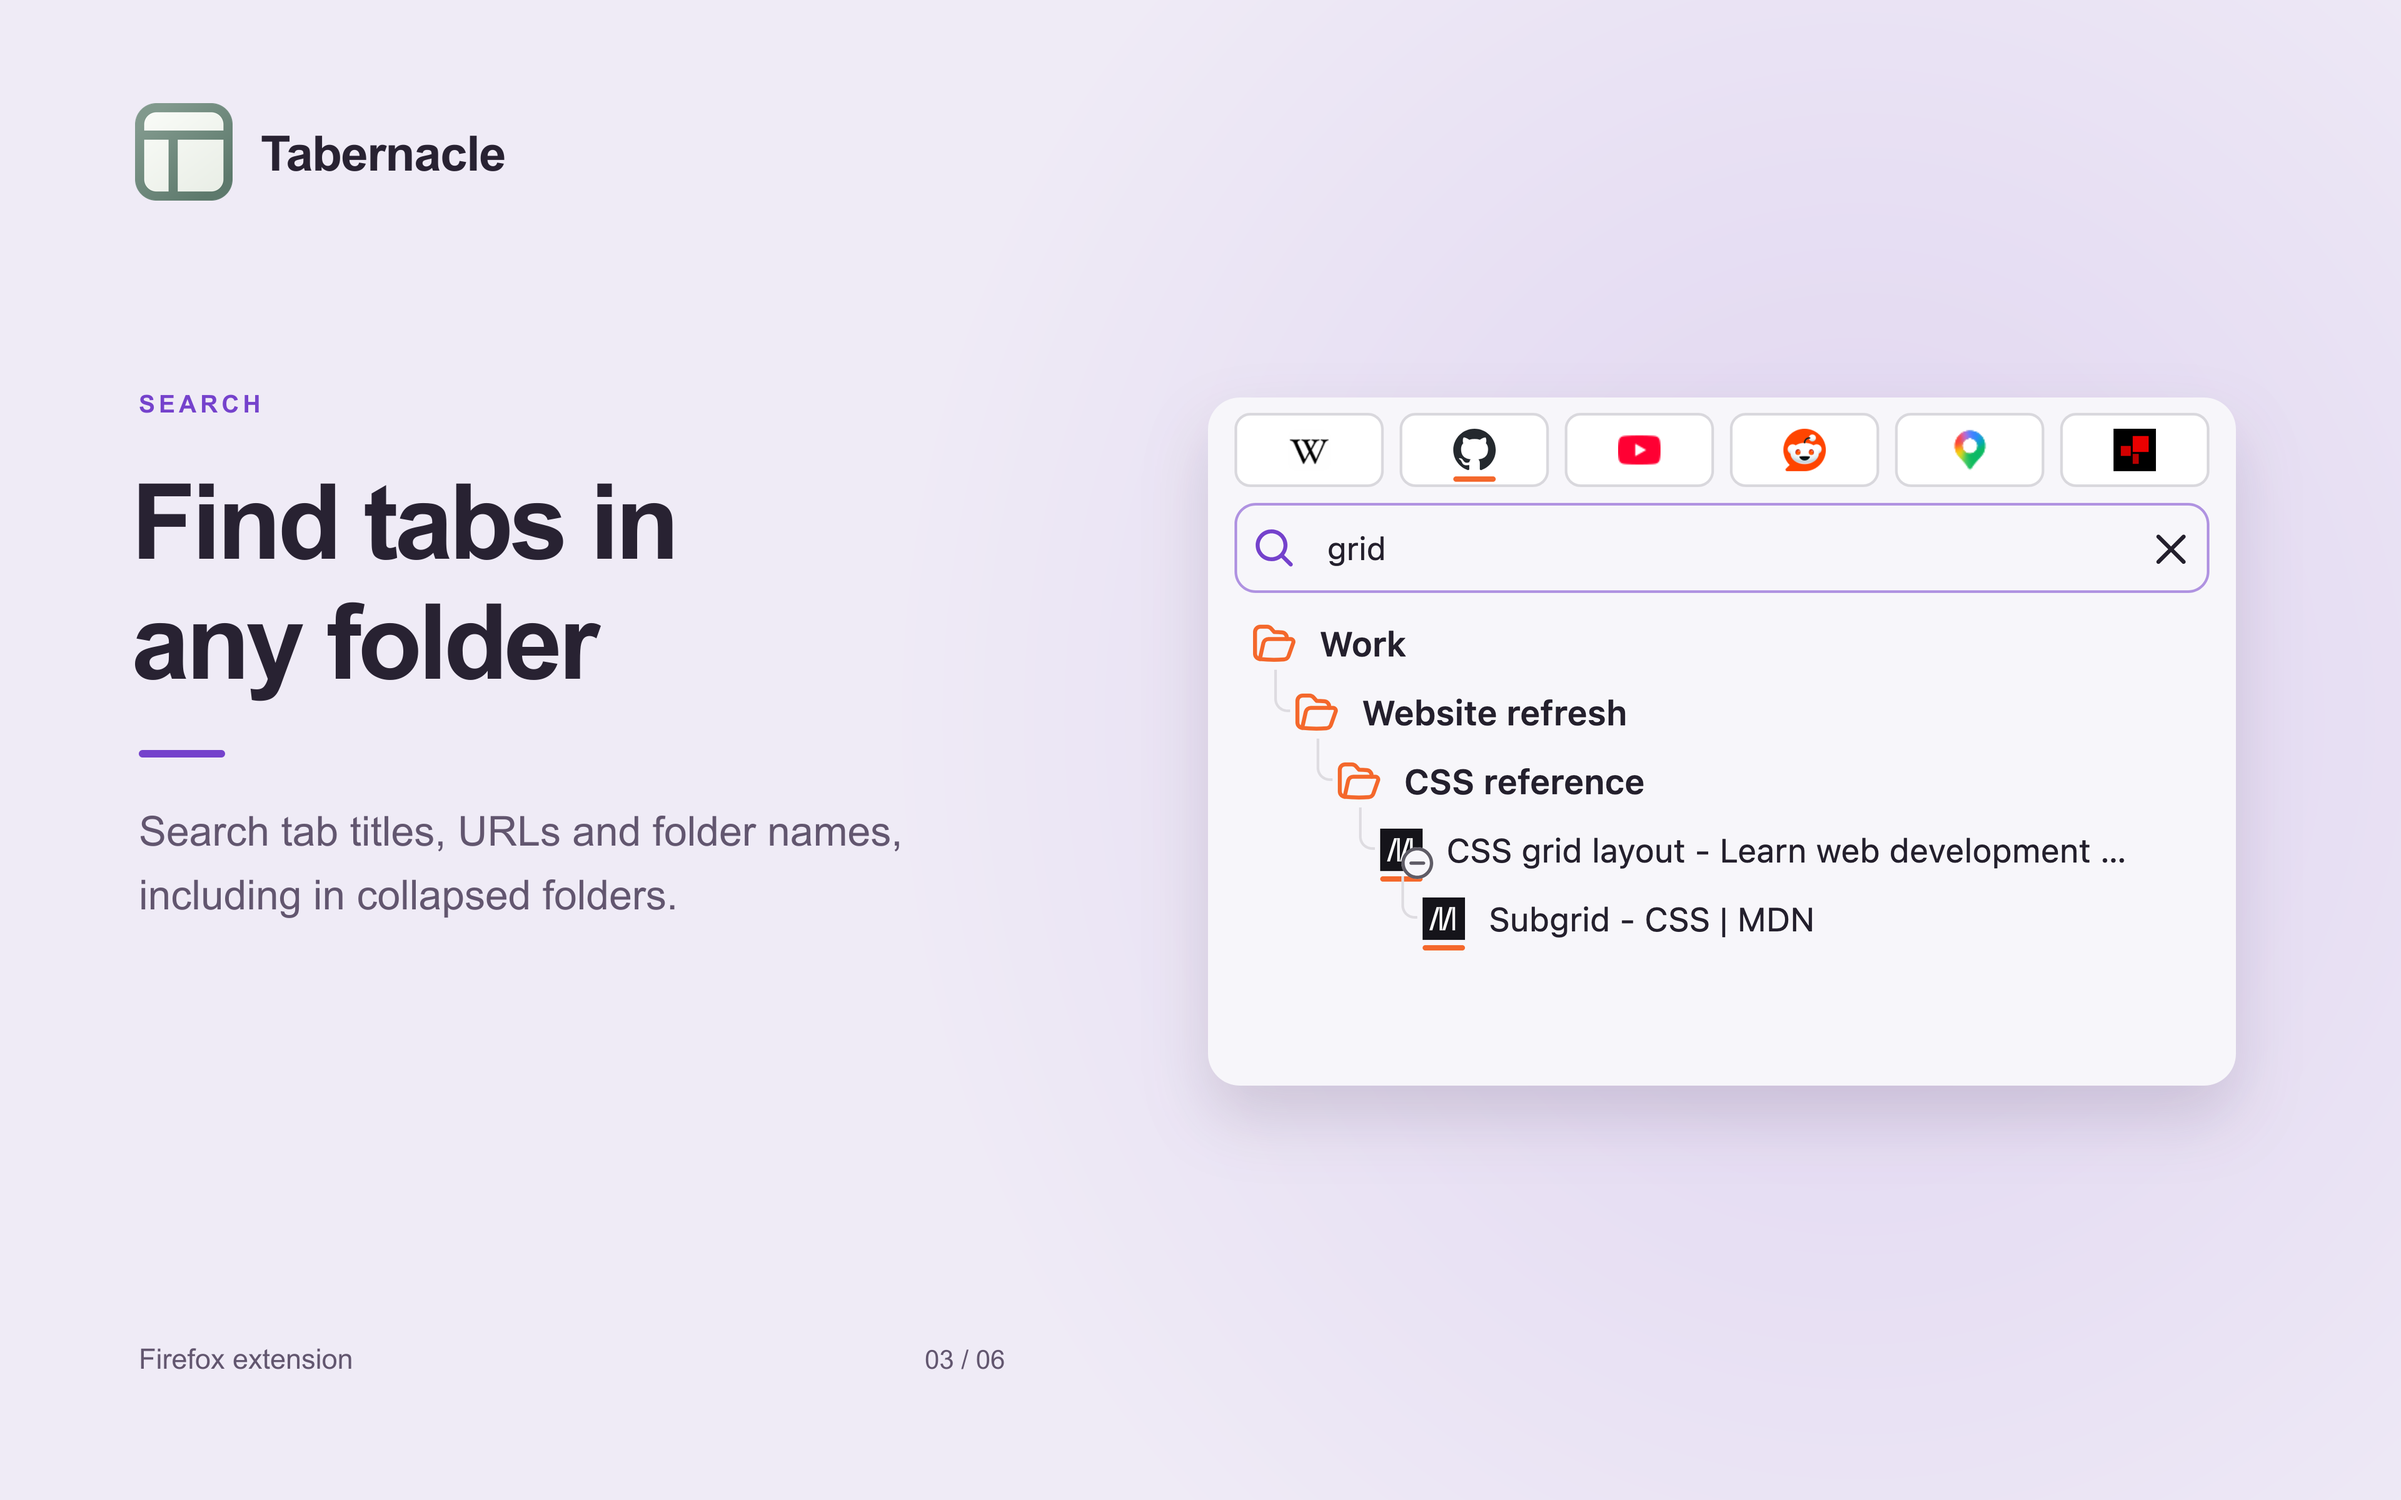
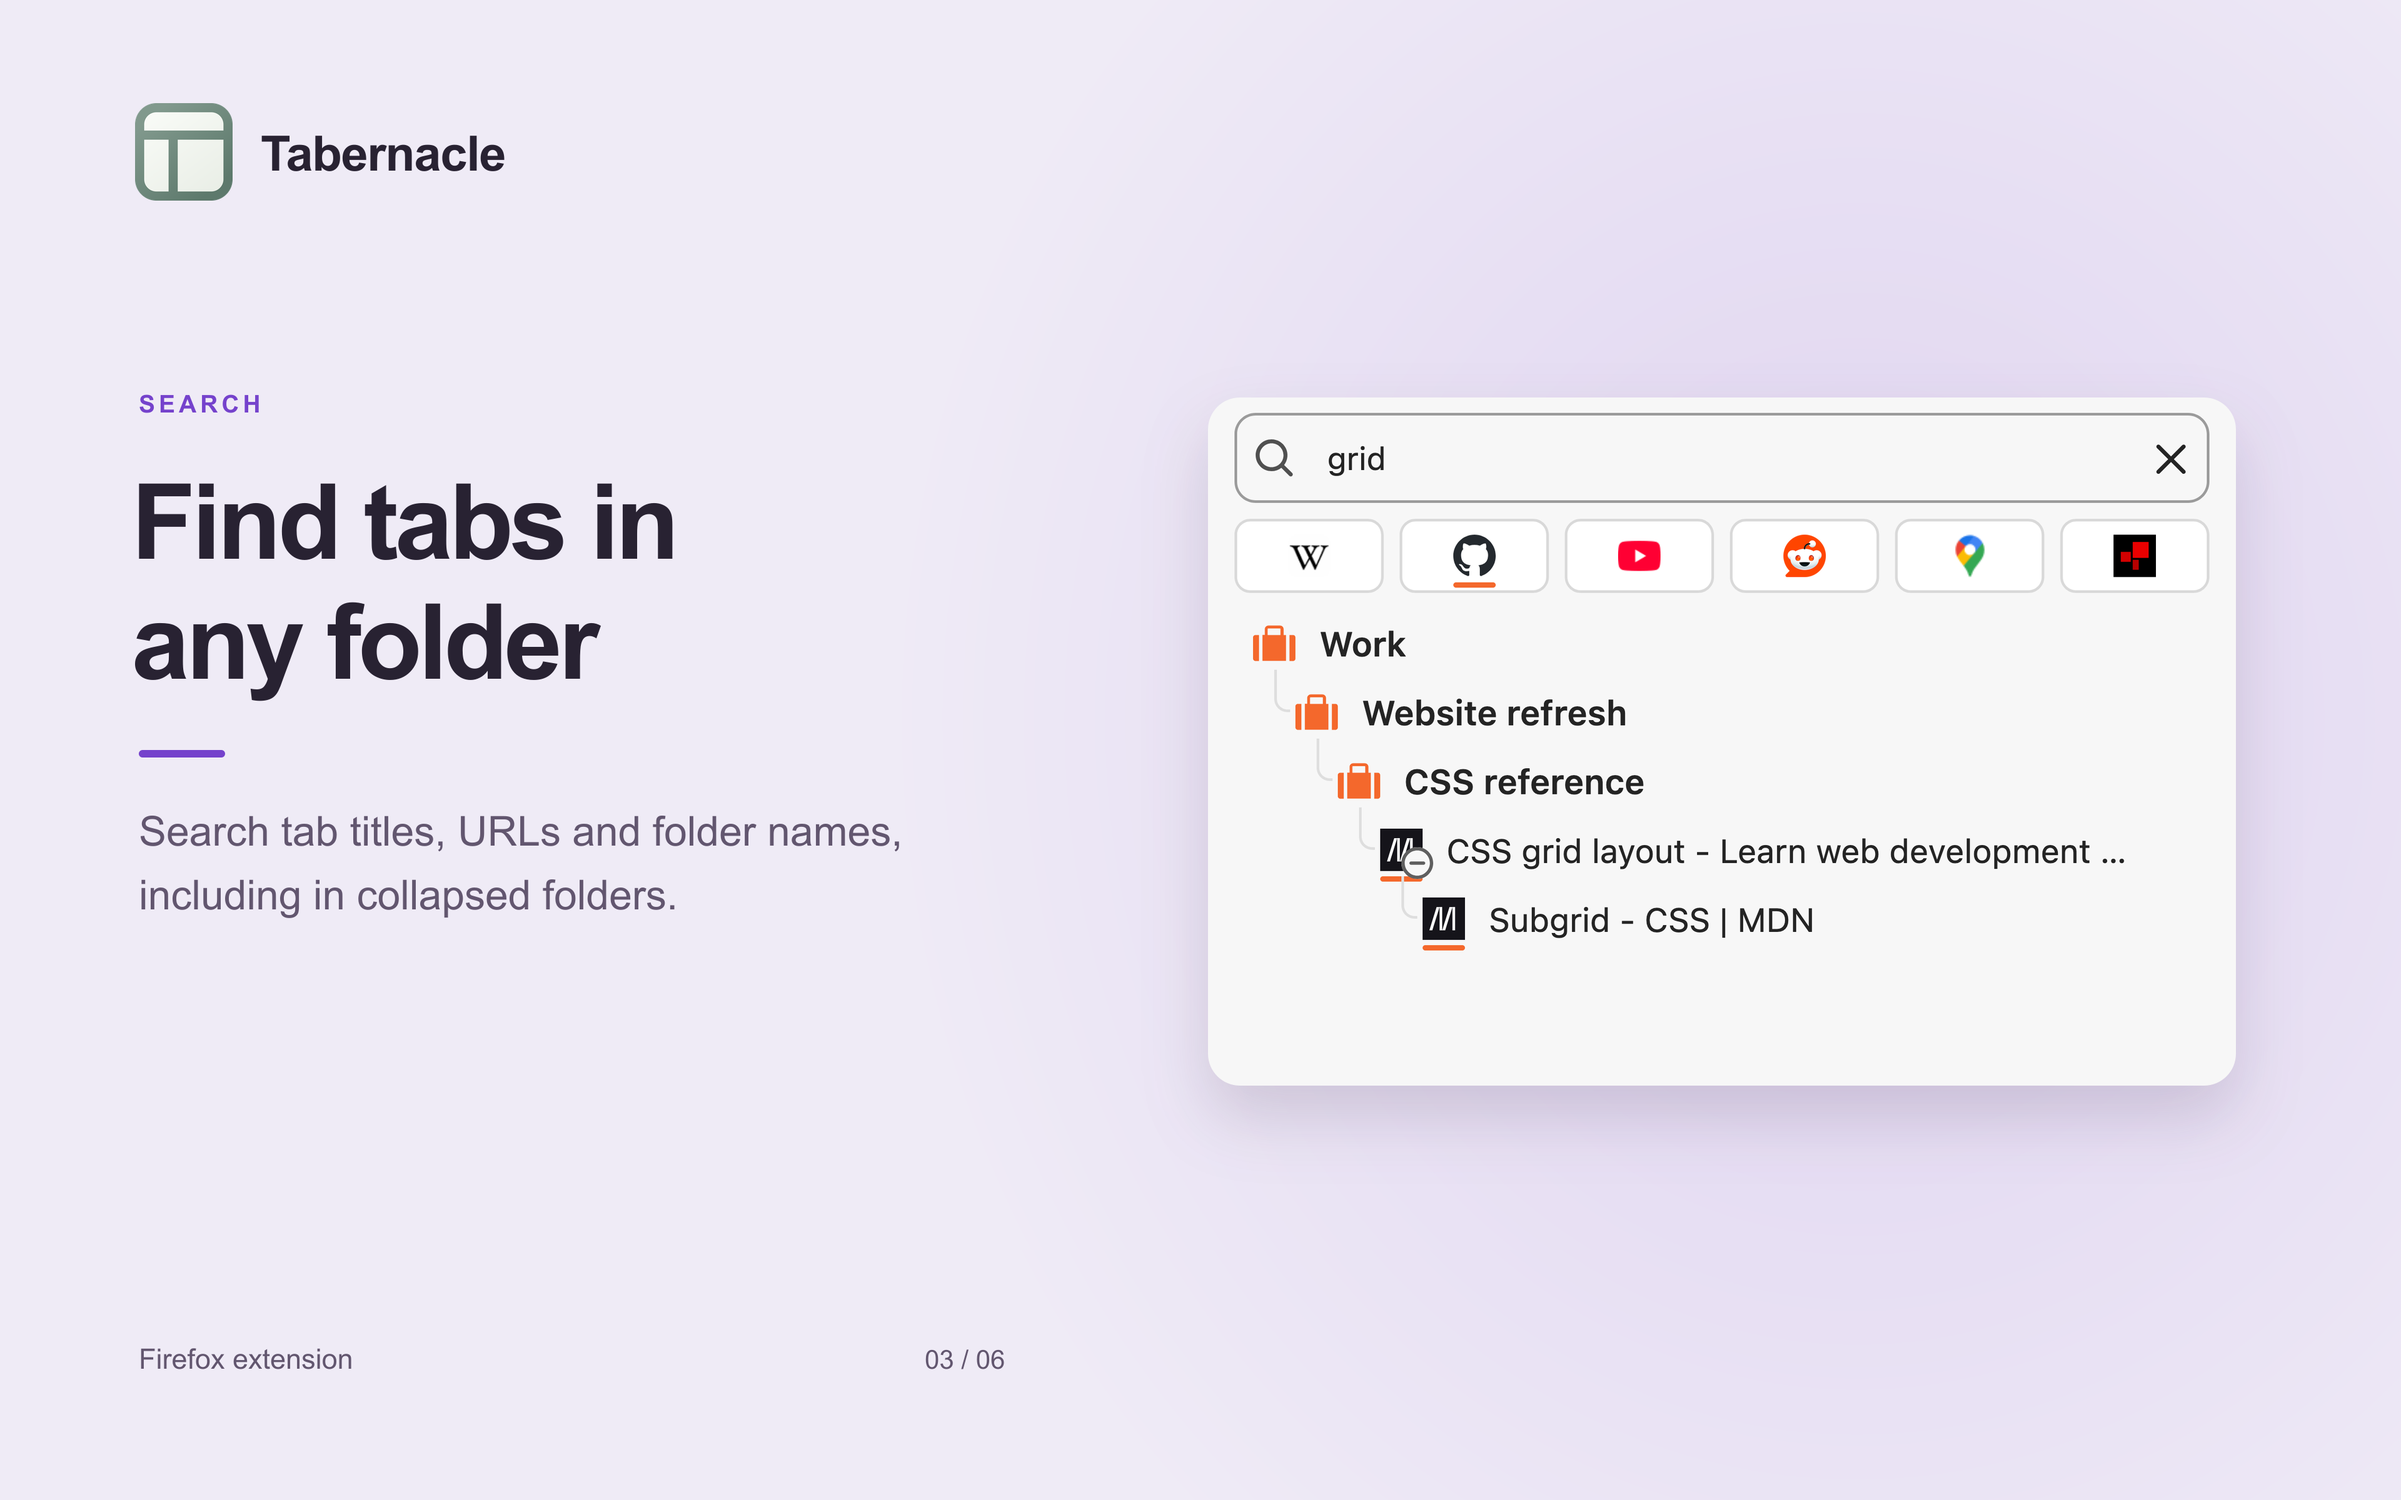
Rename fallback theme to Monochrome and neutralise accents

Changed region(s): [[0.5, 0.2812, 0.9375, 0.4375], [0.5625, 0.5, 0.5938, 0.5312], [0.5312, 0.4688, 0.5625, 0.5]]

diff --git a/extension/src/theme-palette.js b/extension/src/theme-palette.js
@@ -60,7 +60,7 @@ function mix(color, percent) {
 }
 
 // Incomplete external themes use Firefox's role fallbacks, not a mix of its
-// colours and Tabernacle's purple palette. Images are trusted bundled data only.
+// colours and the Monochrome palette. Images are trusted bundled data only.
 export function paletteFrom(details, dark, { bundled = false, isDefault = false, platform } = {}) {
   const supplied = colorsFrom(details);
   if (!Object.keys(supplied).length) return null;
@@ -219,8 +219,7 @@ function externalThemeDark(details, preference) {
 }
 
 export function resolveTheme(look, snapshot, dark) {
-  if (look.themeSource === 'tabernacle')
-    return { palette: null, status: 'Using Tabernacle’s colours' };
+  if (look.themeSource === 'tabernacle') return { palette: null, status: 'Using Monochrome' };
   const known = catalogue.get(snapshot.active?.id);
   if (known)
     return {
@@ -238,12 +237,12 @@ export function resolveTheme(look, snapshot, dark) {
     palette,
     status: palette
       ? `Using ${snapshot.active?.name || 'Firefox theme colours'}`
-      : 'Using Tabernacle’s fallback colours',
+      : 'Using Monochrome fallback colours',
   };
 }
 
 // Only remove properties owned by this adapter. This also makes reverting to
-// Tabernacle exactly restore its original CSS, including forced-colour rules.
+// Monochrome exactly restore its CSS, including forced-colour rules.
 export function createPaletteRenderer(root) {
   let previous = [];
   return (palette, colorScheme = 'default') => {

diff --git a/scripts/test-themes-ui.js b/scripts/test-themes-ui.js
@@ -111,7 +111,7 @@ try {
   for (const tab of [settings, activity])
     tab.on('pageerror', (error) => errors.push(error.message));
   const beforeGeometry = await page.locator('.row.active').boundingBox();
-  const cases = [{ id: null, name: 'Tabernacle fallback' }, ...knownThemes];
+  const cases = [{ id: null, name: 'Monochrome fallback' }, ...knownThemes];
   for (const dark of [false, true]) {
     for (const tab of [page, settings, activity])
       await tab.emulateMedia({ colorScheme: dark ? 'dark' : 'light' });
@@ -131,7 +131,7 @@ try {
       } else
         await expect(page.locator('html')).toHaveCSS(
           'background-color',
-          dark ? 'rgb(33, 29, 43)' : 'rgb(247, 246, 250)',
+          dark ? 'rgb(32, 32, 32)' : 'rgb(247, 247, 247)',
         );
       const geometry = await page.locator('.row.active').boundingBox();
       expect(geometry).toEqual(beforeGeometry);
@@ -192,7 +192,7 @@ try {
   });
   await settings.getByRole('button', { name: 'Save changes', exact: true }).click();
   await expect(page.locator('html')).not.toHaveAttribute('data-firefox-theme');
-  await expect(page.locator('html')).toHaveCSS('background-color', 'rgb(33, 29, 43)');
+  await expect(page.locator('html')).toHaveCSS('background-color', 'rgb(32, 32, 32)');
   await expect(page.locator('.sidebar')).toHaveCSS('background-image', 'none');
   await checkSharedPalette();
   await setTheme('nova-pine@mozilla.org');

diff --git a/extension/colors.css b/extension/colors.css
@@ -1,20 +1,20 @@
-/* Shared appearance tokens for the sidebar, settings and activity page.
+/* Shared Monochrome tokens for the sidebar, settings and activity page.
    Firefox palettes override these on the root through theme-palette.js. */
 :root {
   color-scheme: light dark;
-  --background: light-dark(#f7f6fa, #211d2b);
-  --text: light-dark(#24202d, #f3eff9);
+  --background: light-dark(#f7f7f7, #202020);
+  --text: light-dark(#242424, #f2f2f2);
   --icon: var(--text);
-  --toolbar-icon: light-dark(#5b5b66, #fbfbfe);
+  --toolbar-icon: light-dark(#5e5e5e, #fbfbfb);
   --muted: color-mix(in srgb, var(--text) 72%, var(--background));
   --line: color-mix(in srgb, var(--text) 14%, var(--background));
   --subtle: color-mix(in srgb, var(--text) 7%, var(--background));
   --hover: color-mix(in srgb, var(--text) 6%, var(--background));
-  --control: light-dark(#ffffff, #302938);
-  --selected: light-dark(#ffffff, #352e42);
-  --selected-border: light-dark(#c4b3df, #645575);
+  --control: light-dark(#ffffff, #2d2d2d);
+  --selected: light-dark(#ffffff, #343434);
+  --selected-border: light-dark(#bdbdbd, #606060);
   --selected-text: var(--text);
-  --accent: light-dark(#7542cc, #c4a1ff);
+  --accent: light-dark(#505050, #c7c7c7);
   --accent-text: var(--background);
   --focus: var(--accent);
   --action-text: var(--accent);

diff --git a/scripts/test-color-mode-ui.js b/scripts/test-color-mode-ui.js
@@ -11,7 +11,7 @@ const errors = [];
 page.on('pageerror', (error) => errors.push(error.message));
 
 let openLook, settings, mode;
-const background = (scheme) => (scheme === 'dark' ? 'rgb(33, 29, 43)' : 'rgb(247, 246, 250)');
+const background = (scheme) => (scheme === 'dark' ? 'rgb(32, 32, 32)' : 'rgb(247, 247, 247)');
 
 const checkPalette = async (scheme) => {
   await expect(page.locator('html')).toHaveCSS('background-color', background(scheme));
@@ -106,12 +106,12 @@ try {
 
   openLook = await prepareSettings(page);
   settings = await openLook();
-  mode = settings.getByRole('combobox', { name: 'Tabernacle colour mode', exact: true });
+  mode = settings.getByRole('combobox', { name: 'Monochrome colour mode', exact: true });
   await openLook();
   await expect(settings.getByRole('combobox', { name: 'Theme', exact: true })).toBeVisible();
   await expect(mode).toHaveValue('default');
   await expect(mode).toHaveAccessibleDescription(
-    'Used for Tabernacle’s colours, including the fallback. Follow Firefox uses its light/dark preference.',
+    'Used for Monochrome, including the fallback. Follow Firefox uses its light/dark preference.',
   );
   await mode.selectOption('light');
   await settings.getByRole('button', { name: 'Discard changes', exact: true }).click();

diff --git a/extension/settings.html b/extension/settings.html
@@ -57,14 +57,14 @@
                     aria-describedby="look-theme-status"
                   >
                     <option value="firefox">Follow Firefox</option>
-                    <option value="tabernacle">Tabernacle</option>
+                    <option value="tabernacle">Monochrome</option>
                   </select>
                 </div>
                 <div class="setting-row">
                   <div>
-                    <label for="look-color-scheme">Tabernacle colour mode</label>
+                    <label for="look-color-scheme">Monochrome colour mode</label>
                     <p id="look-color-scheme-help" class="setting-help">
-                      Used for Tabernacle’s colours, including the fallback. Follow Firefox uses its
+                      Used for Monochrome, including the fallback. Follow Firefox uses its
                       light/dark preference.
                     </p>
                   </div>

diff --git a/extension/src/look.js b/extension/src/look.js
@@ -1,3 +1,4 @@
+// Keep the stored ID for Monochrome compatible with existing preferences.
 const themeSources = ['firefox', 'tabernacle'];
 const colorSchemes = ['default', 'light', 'dark'];
 
@@ -16,6 +17,6 @@ export function requireLook(value) {
   if (value.colorScheme !== undefined && !colorSchemes.includes(value.colorScheme))
     throw new Error('Choose Follow Firefox, Light or Dark for the colour mode.');
   if (value.themeSource !== undefined && !themeSources.includes(value.themeSource))
-    throw new Error('Choose Follow Firefox or Tabernacle for the theme.');
+    throw new Error('Choose Follow Firefox or Monochrome for the theme.');
   return normalizeLook(value);
 }

diff --git a/scripts/test-firefox.js b/scripts/test-firefox.js
@@ -536,7 +536,7 @@ try {
     async () =>
       (await driver.executeScript(
         'return getComputedStyle(document.documentElement).backgroundColor;',
-      )) === 'rgb(33, 29, 43)',
+      )) === 'rgb(32, 32, 32)',
     5000,
   );
   await driver.wait(
@@ -562,7 +562,7 @@ try {
       const dark = colorScheme === 'dark' || (colorScheme === 'default' && palette.prefersDark);
       return (
         palette.mode === colorScheme &&
-        palette.background === (dark ? 'rgb(33, 29, 43)' : 'rgb(247, 246, 250)')
+        palette.background === (dark ? 'rgb(32, 32, 32)' : 'rgb(247, 247, 247)')
       );
     }, 5000);
   }

diff --git a/test/themes.test.js b/test/themes.test.js
@@ -43,7 +43,7 @@ test('theme settings default, validate, and keep fallback colour preferences', (
   for (const themeSource of [null, true, 'sun'])
     assert.throws(
       () => requireLook({ connectingLines: true, domains: false, themeSource }),
-      /Choose Follow Firefox or Tabernacle/,
+      /Choose Follow Firefox or Monochrome/,
     );
 });
 

diff --git a/extension/theme.css b/extension/theme.css
@@ -1,4 +1,4 @@
-/* These colour-only rules are inactive for the original Tabernacle palette. */
+/* These colour-only rules are inactive for the Monochrome palette. */
 :root[data-firefox-theme] .sidebar {
   background-color: var(--background);
   background-image: var(--theme-gradient);

diff --git a/README.md b/README.md
@@ -41,7 +41,7 @@ Tabernacle follows your Firefox theme automatically. It recognises Firefox Defau
 
 Click the **Settings** cog at the bottom of the sidebar, or use **Preferences** for Tabernacle in Firefox’s Add-ons Manager. Settings open in a full browser tab, with sections for Appearance, Containers, Backup and restore, Shortcuts and About.
 
-In **Settings → Appearance**, choose **Follow Firefox** or **Tabernacle**. **Tabernacle colour mode** controls the original palette when selected manually or used as a fallback: **Follow Firefox**, **Light** or **Dark**. Save applies your preferences to every window. You can also show website domains and lines connecting nested tabs.
+In **Settings → Appearance**, choose **Follow Firefox** or **Monochrome**. **Monochrome colour mode** controls the neutral palette when selected manually or used as a fallback: **Follow Firefox**, **Light** or **Dark**. Save applies your preferences to every window. You can also show website domains and lines connecting nested tabs.
 
 Theme identification requires Firefox’s **management** permission, which provides installed add-on information. Tabernacle uses it to identify the enabled theme; it does not store or transmit the installed add-on list or change Firefox’s theme. Mozilla palettes are bundled locally, with sources and licences in `extension/themes/NOTICE.txt`. No theme downloads happen at runtime.
 

diff --git a/DEVELOPMENT.md b/DEVELOPMENT.md
@@ -2,7 +2,8 @@
 
 The tab list uses one layout, styled in `extension/tree.css`. Shared appearance tokens live in
 `extension/colors.css`; the bottom bar, menus and dialogs live in `extension/sidebar.css`.
-The sidebar, settings and activity page share this fallback palette. Firefox palettes
+The sidebar, settings and activity page share this Monochrome fallback palette. Its saved
+theme source remains `tabernacle` for compatibility with existing preferences. Firefox palettes
 come from `src/theme-palette.js`, including action, focus and default folder colours.
 Primary actions use the theme’s popup highlight/text pair, or its popup text/background
 when no highlight is supplied. Custom folder and container colours remain explicit choices.
